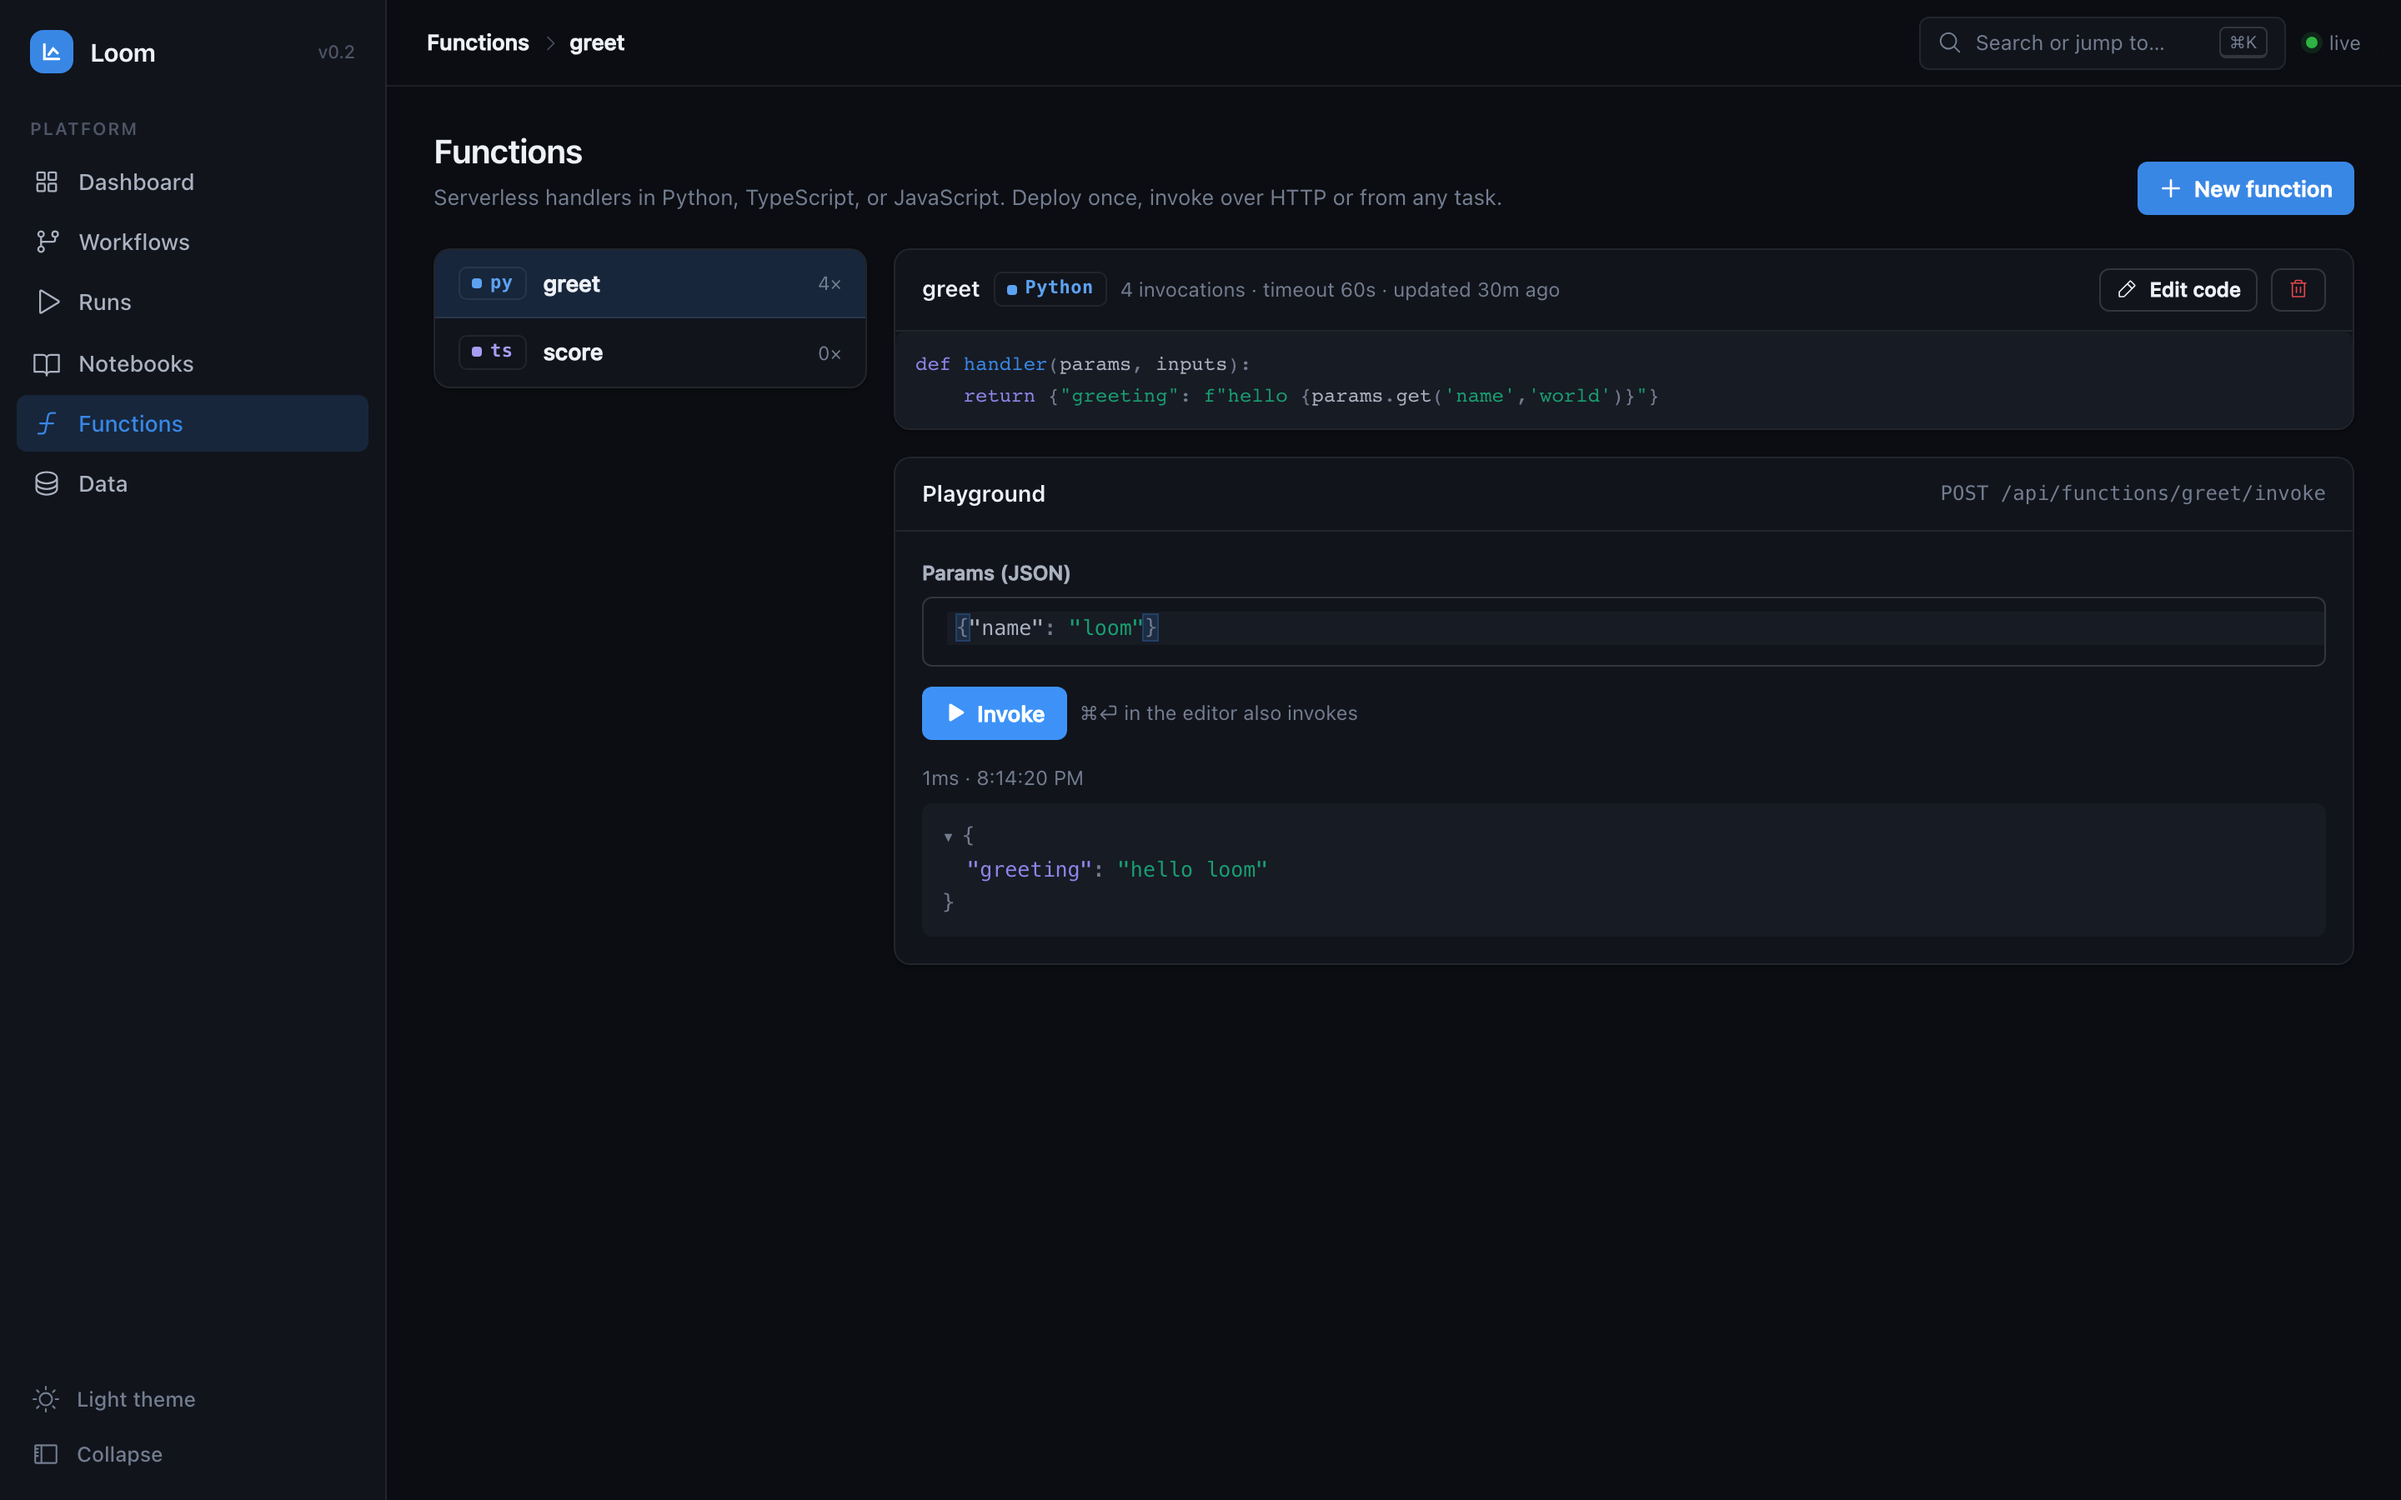
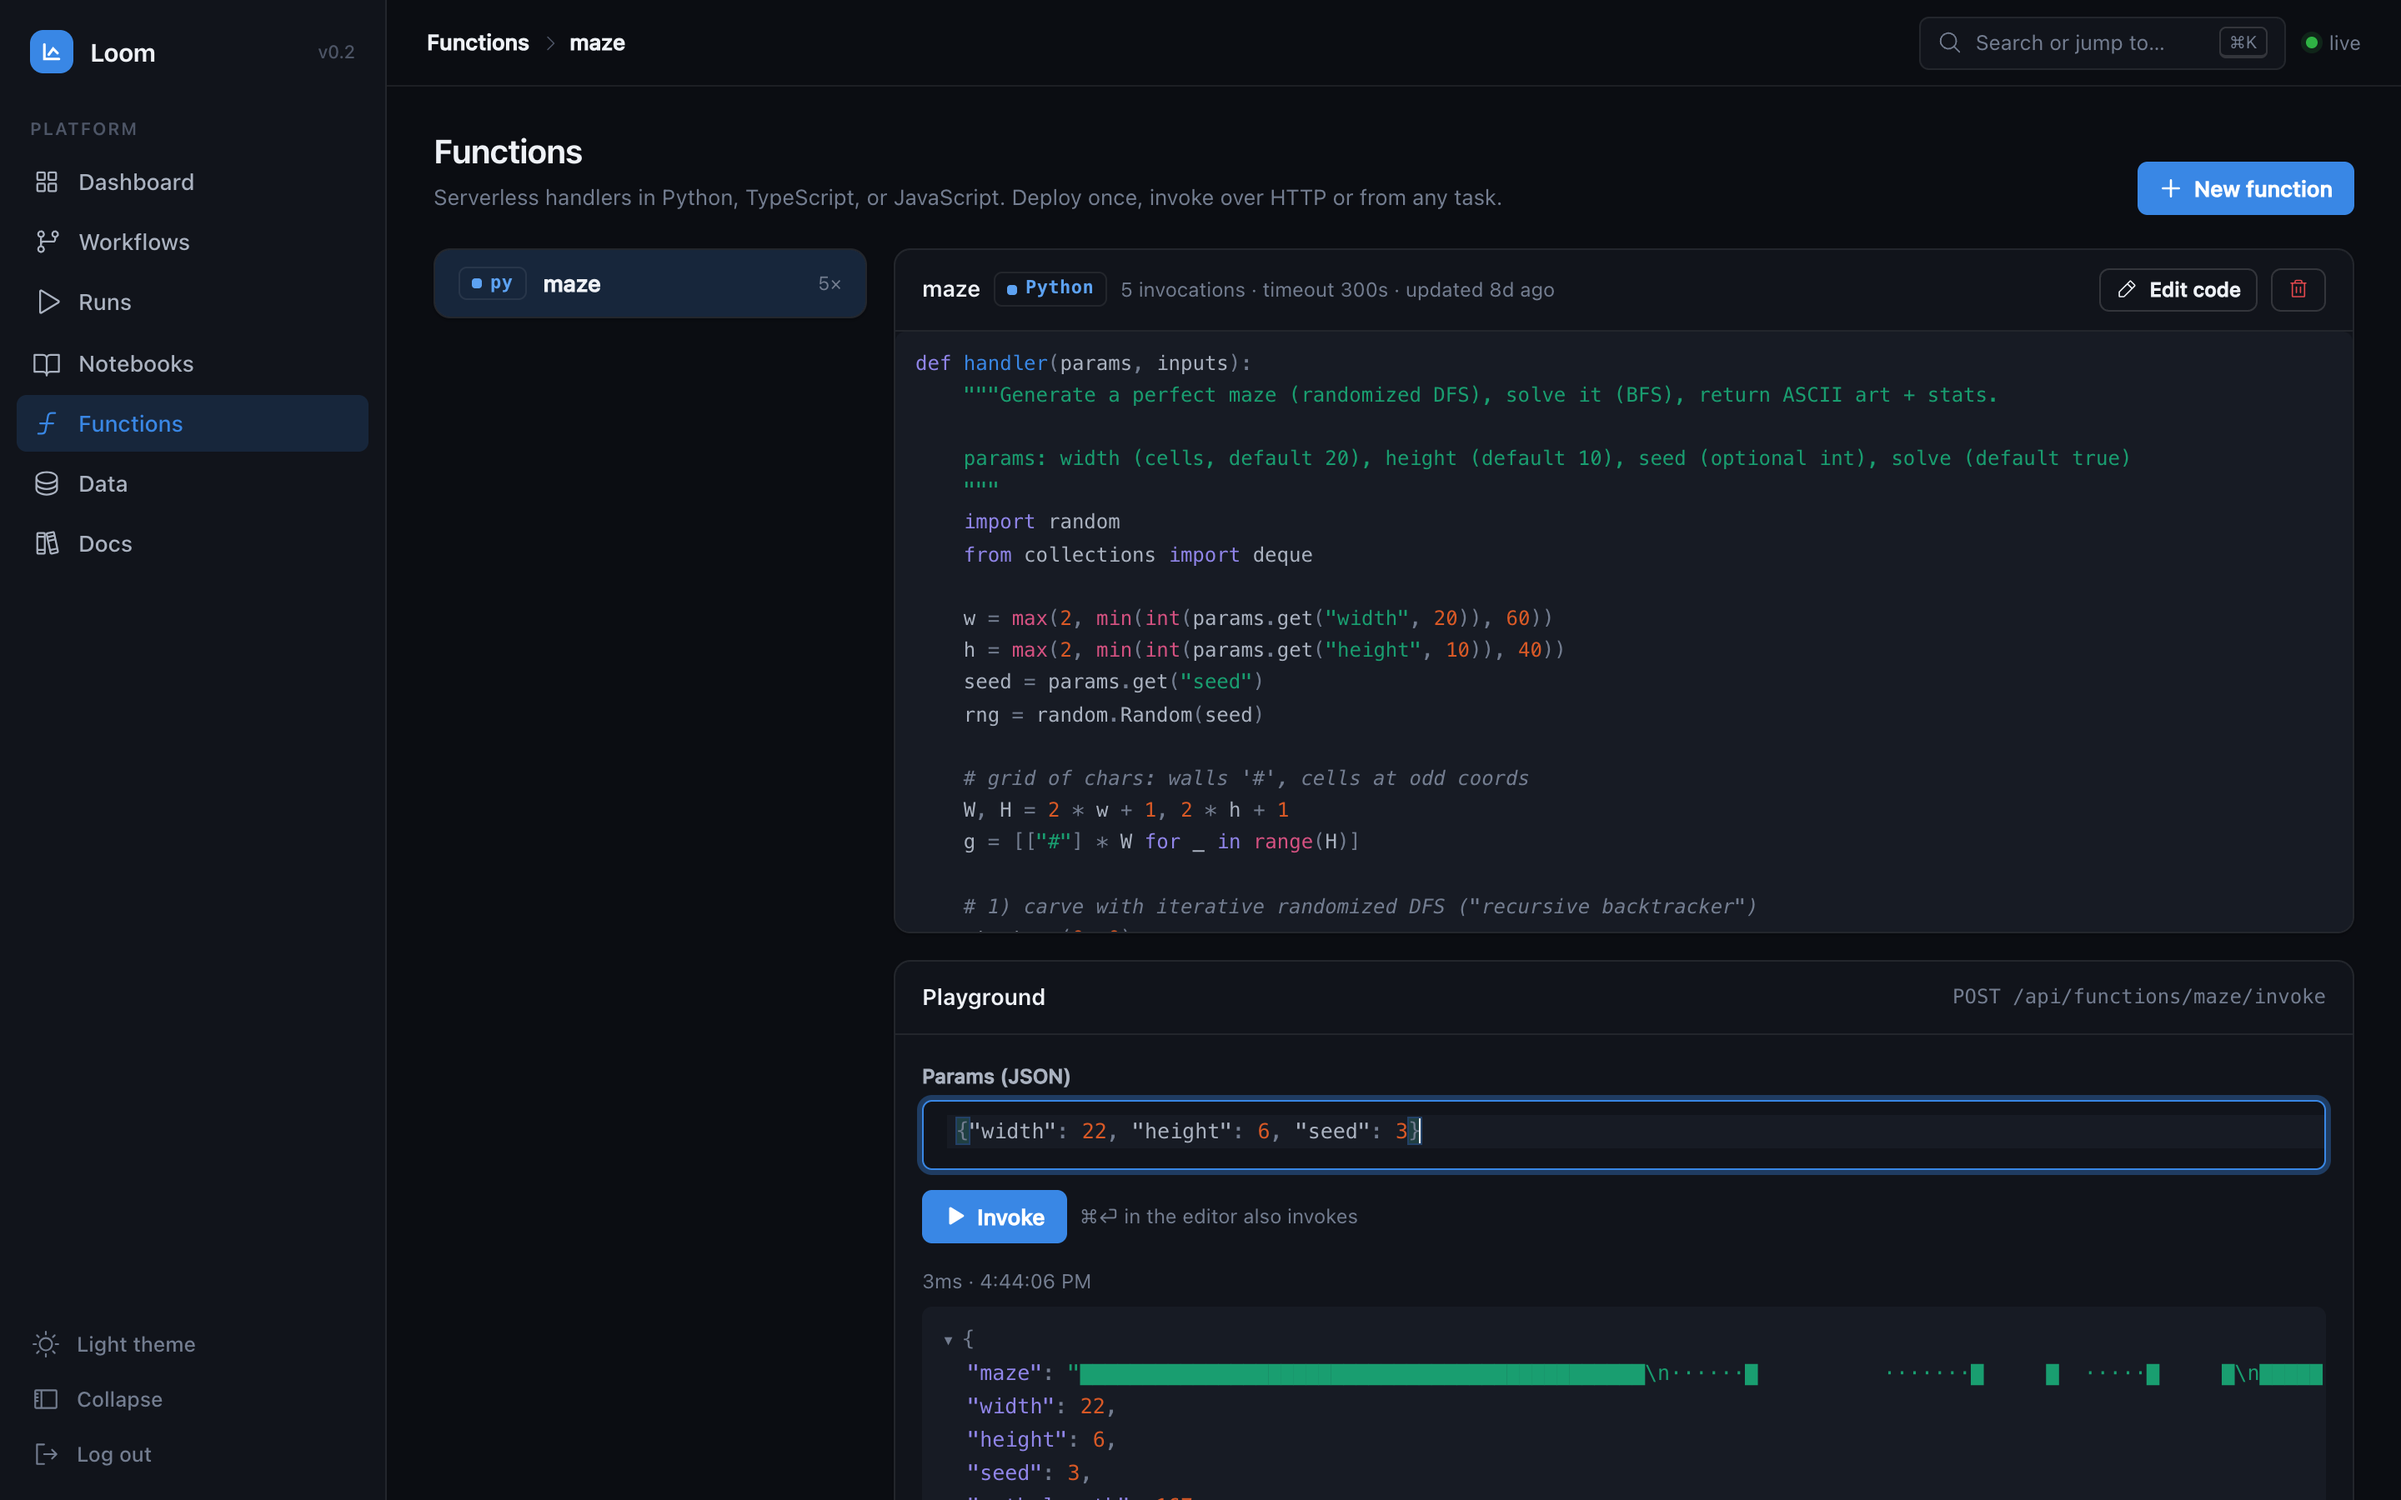
hero: radar notebook chunk + visible Workflows and Functions panels; README/landing use the radar chunk

diff --git a/site/index.html b/site/index.html
@@ -264,8 +264,8 @@ footer .right{margin-left:auto;display:flex;gap:18px}
       <figcaption><b>Math → code → proof.</b> The backprop lab walks the chain rule in markdown, does the five steps in a Python cell, and checks ∂L/∂W against a finite difference — absolute error 0.</figcaption>
     </figure>
     <figure class="reveal">
-      <img src="https://raw.githubusercontent.com/DanielMcSheehy/rust-orchestrator/main/docs/screenshots/notebook-polls.png" alt="Polls lab: the everyday question, a SQL cell, a bell-curve histogram of 2,000 simulated polls, and the plain-English answer">
-      <figcaption><b>Question → chart → answer.</b> The polls lab asks "does every poll say 52%?", runs one SQL cell over 2,000 simulated polls, and explains the bell curve in plain English.</figcaption>
+      <img src="https://raw.githubusercontent.com/DanielMcSheehy/rust-orchestrator/main/docs/screenshots/notebook-radar.png" alt="Recommendations lab: the everyday question, a SQL cell, a radar chart of hit rate by music taste for two recommenders, and the plain-English answer">
+      <figcaption><b>Question → chart → answer.</b> The recommendations lab asks who gets good suggestions, runs one SQL cell, and reads the radar: taste-twins win everywhere except for pop fans.</figcaption>
     </figure>
   </div>
   <p class="lead" style="margin-top:28px">No matplotlib, no image uploads — charts are the console's own SVG renderer over the data grid behind each cell. Publish the notebook and the outputs ship with it, read-only.</p>

diff --git a/README.md b/README.md
@@ -150,9 +150,9 @@ per-series colours — and the spec saves with the notebook.
 | --- | --- |
 | ![SQL over ingested datasets](docs/screenshots/data-query.png) | ![Serverless function playground](docs/screenshots/functions.png) |
 
-| Math → code → proof | Question → chart → answer |
+| Math → code → proof | One radar, two recommenders |
 | --- | --- |
-| ![Backprop lab — the chain rule written out in markdown, the five steps in a Python cell, and the table checking the analytic gradient against a finite difference](docs/screenshots/notebook-chain-rule.png) | ![Polls lab — 2,000 simulated polls of 1,000 people form a bell curve around the true 52%](docs/screenshots/notebook-polls.png) |
+| ![Backprop lab — the chain rule written out in markdown, the five steps in a Python cell, and the table checking the analytic gradient against a finite difference](docs/screenshots/notebook-chain-rule.png) | ![Recommendations lab — a radar of hit rate by music taste: 'people like you' vs 'most popular', with the question above and the answer below](docs/screenshots/notebook-radar.png) |
 
 ## Architecture
 
